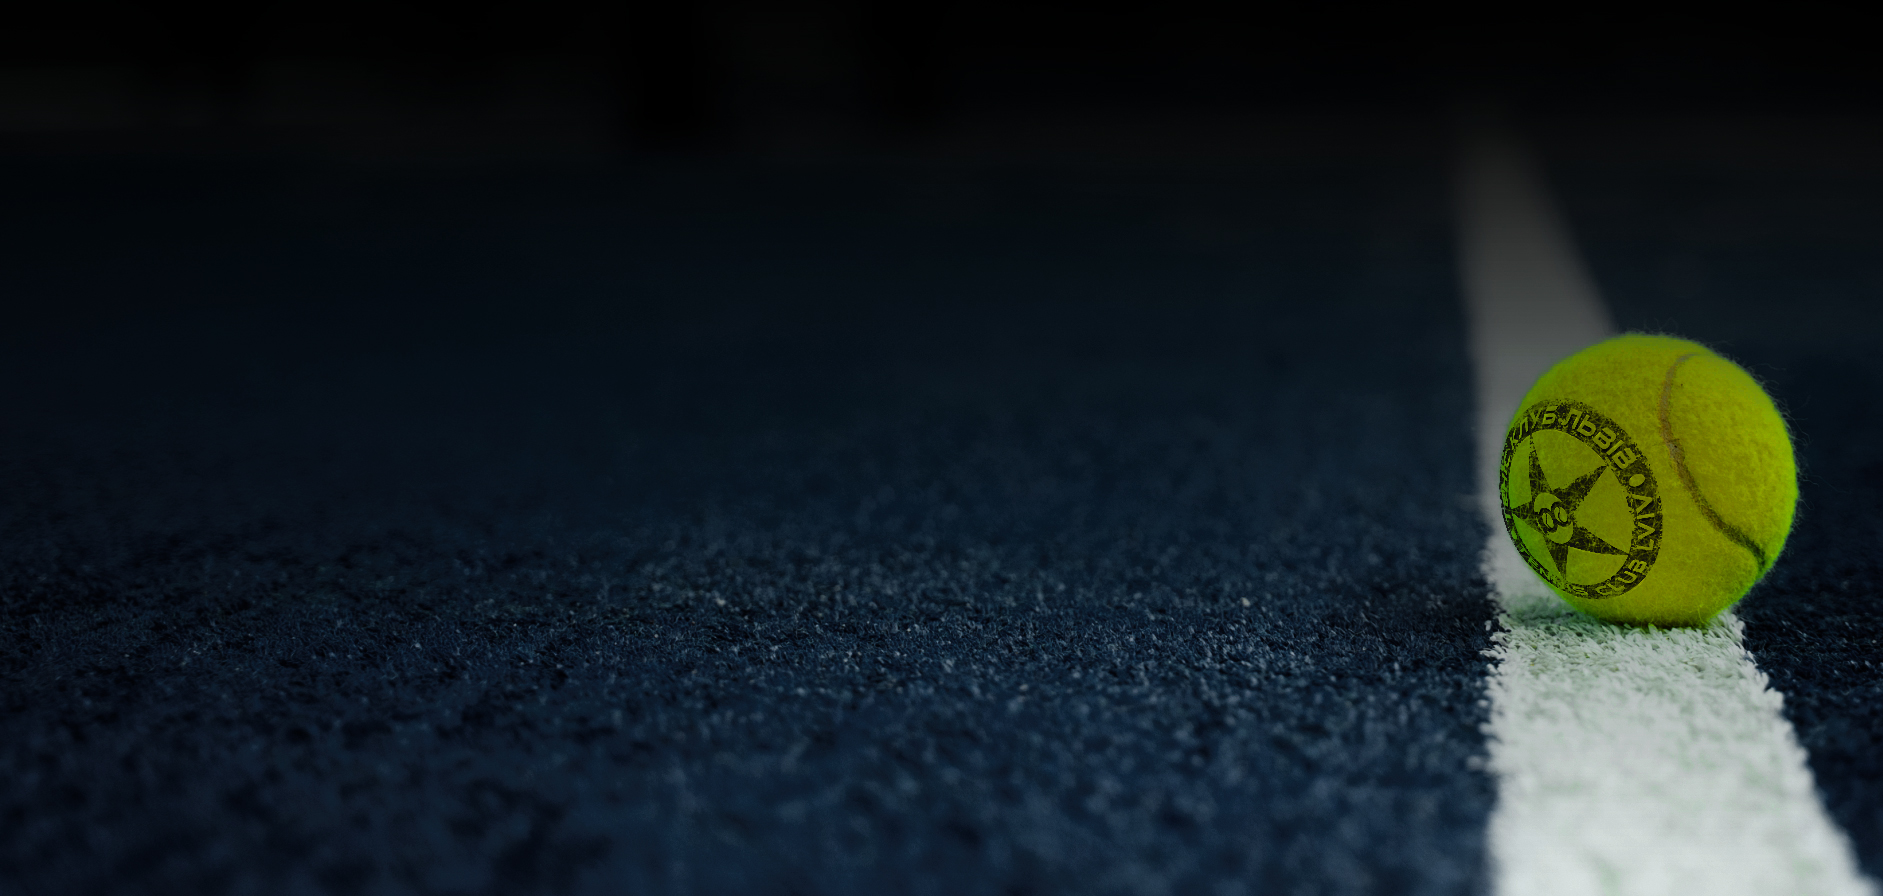
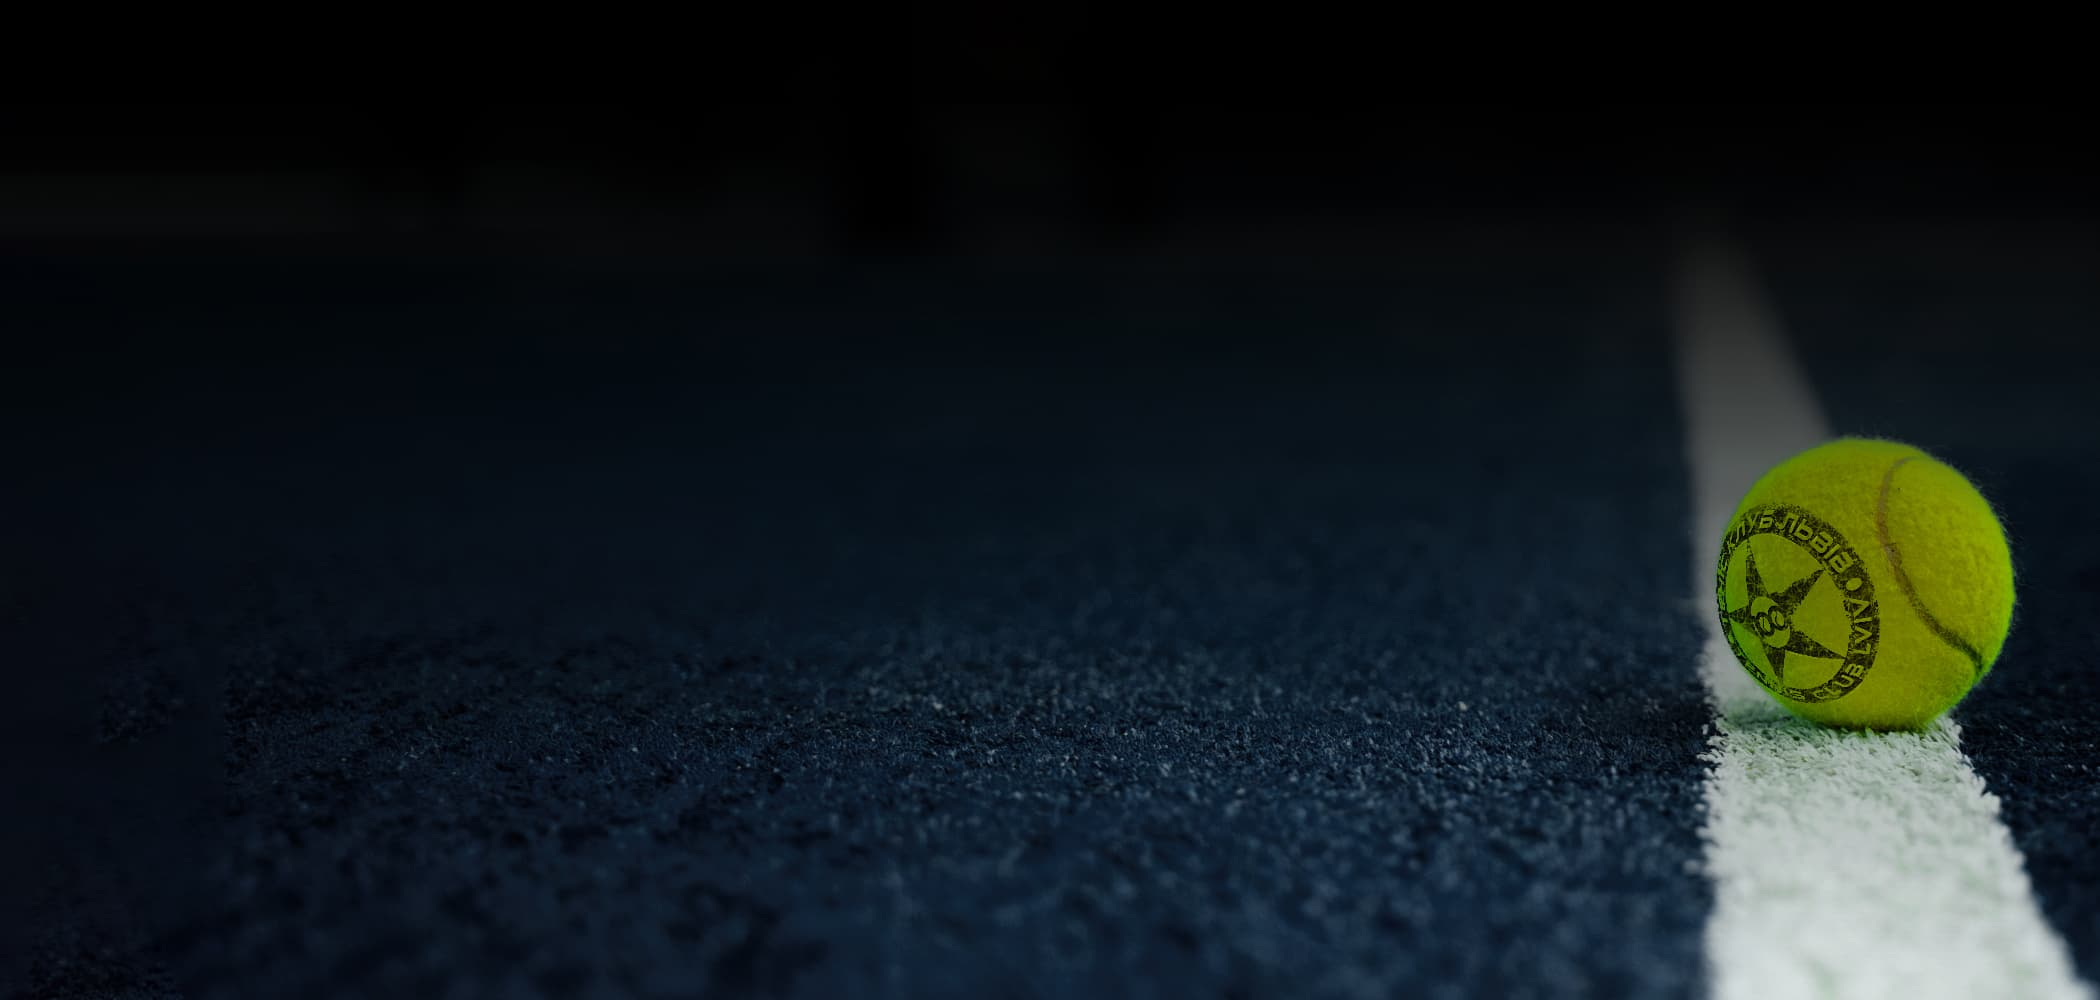
added random poster render

diff --git a/src/components/HeroSection/HeroSection-styled.jsx b/src/components/HeroSection/HeroSection-styled.jsx
@@ -1,14 +1,20 @@
 import styled from "styled-components";
 import { Link } from "react-router-dom";
-import PosterImg from "./img/poster6.jpg";
+import PosterImg4 from "./img/poster4.jpg";
+import PosterImg5 from "./img/poster5.jpg";
+import PosterImg6 from "./img/poster6.jpg";
+
+const getRandomIndex = () => Math.floor(Math.random() * 3);
+const posterImages = [PosterImg4, PosterImg5, PosterImg6];
+const randomPoster = posterImages[getRandomIndex()];
 
 export const Section = styled.section`
   padding-top: 30px;
   padding-bottom: 100px;
   background-color: var(--secondary-black-color);
-  background-image: url(${PosterImg});
+  background-image: url(${randomPoster});
   background-size: cover;
-  background-position: right;
+  background-position: 98% center;
   background-repeat: no-repeat;
 `;
 
@@ -57,7 +63,7 @@ export const SubTitle = styled.p`
   max-width: 600px;
   margin-bottom: 30px;
 
-  font-size: 18px;
+  font-size: 16px;
   line-height: 28px;
 
   color: var(--primary-white-color);
